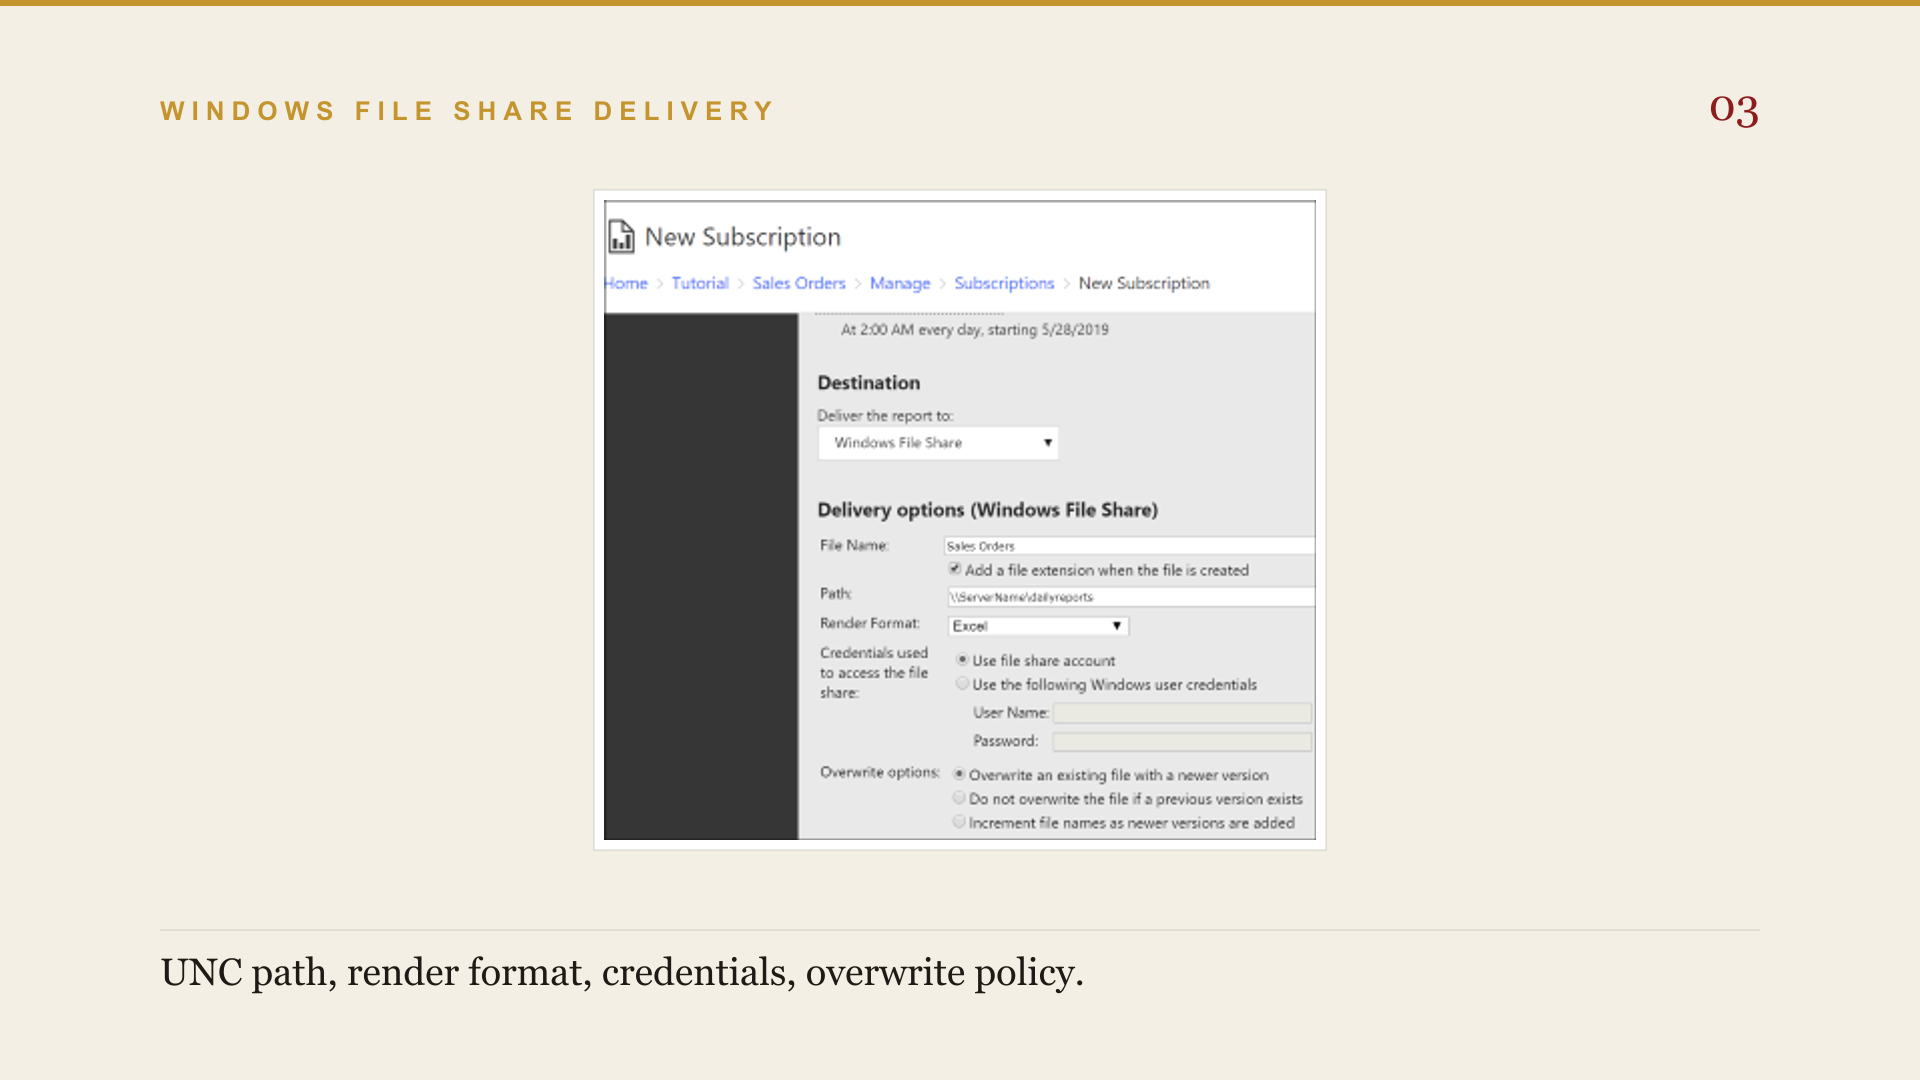
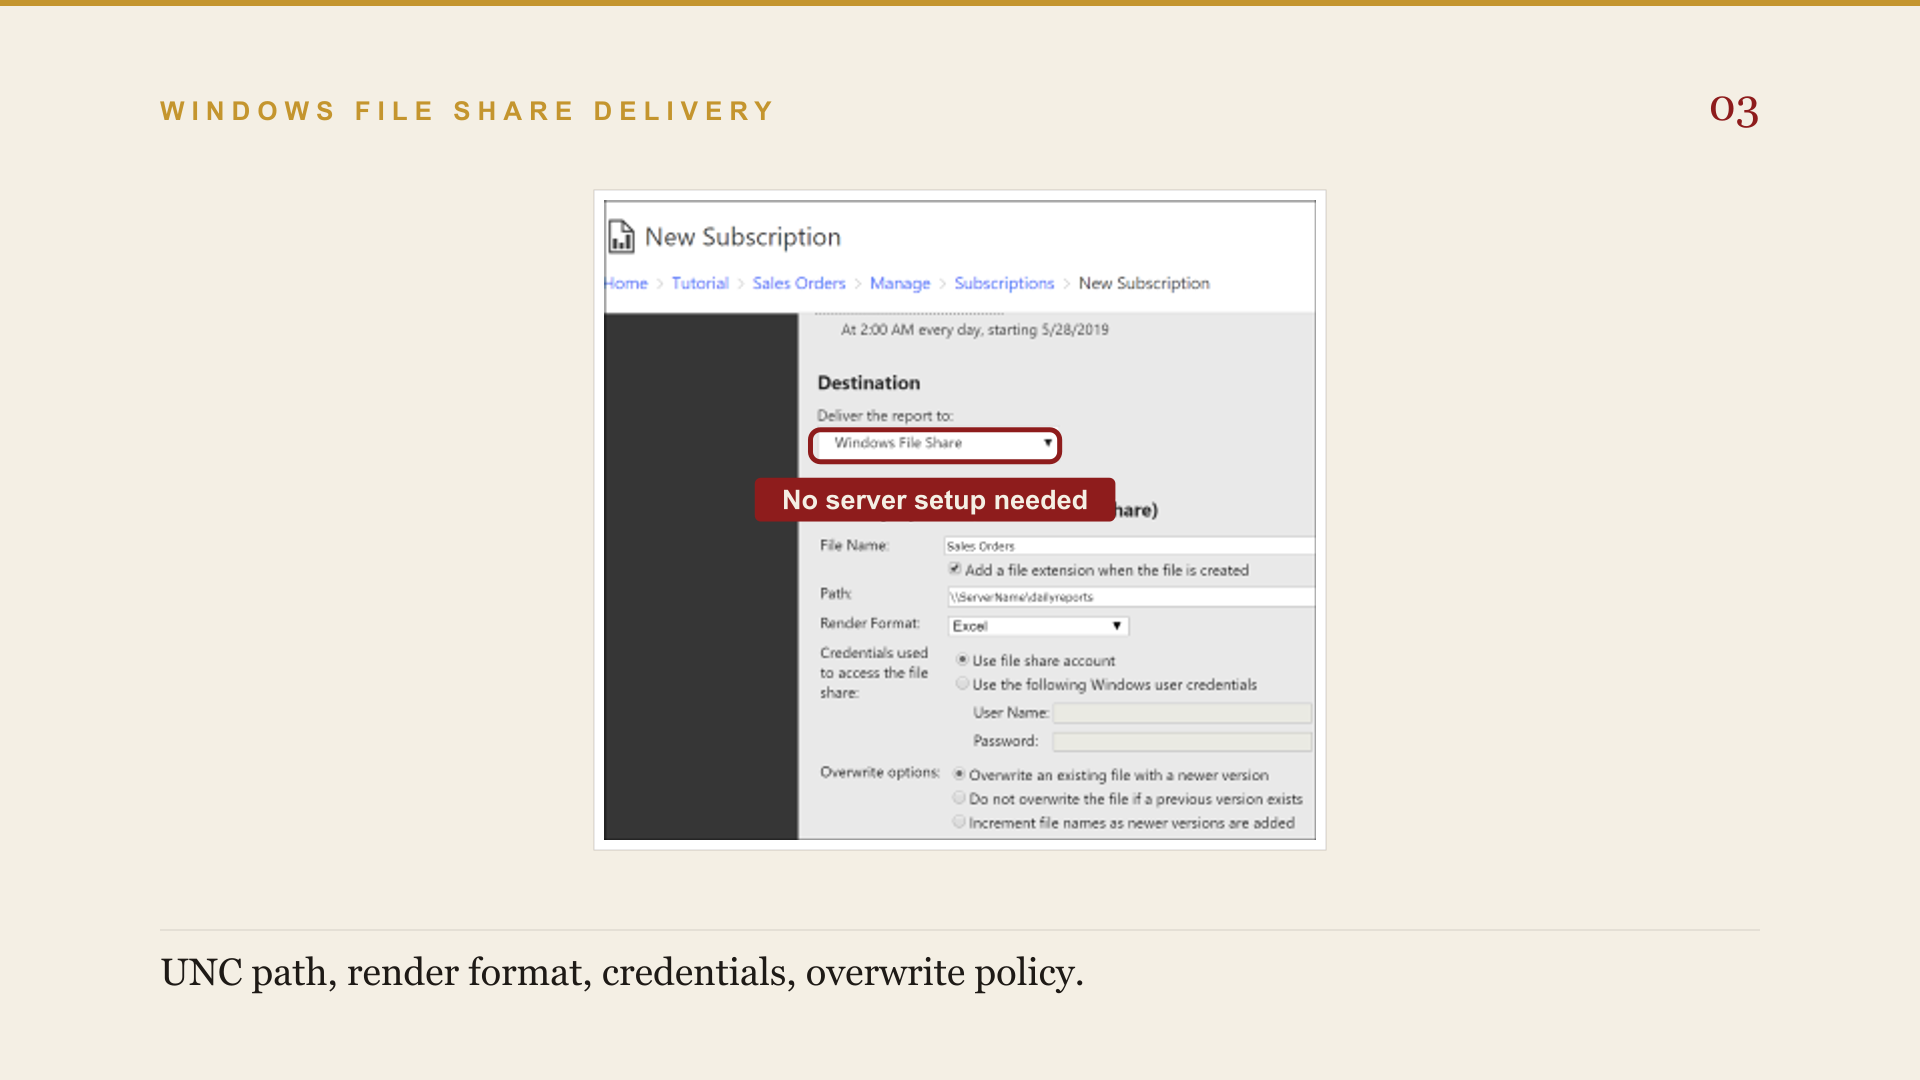
SSRS Ch7: finish lessons 31-33 - completes Chapter 7 (Subscriptions & Delivery)
- 31-data-driven-subscriptions: +1 screenshot (field-mapping table)
- 32-delivery-to-email-and-file-share: +1 screenshot (Render Format options)
- 33-subscription-scheduling: 0->3 screenshots (shared vs report-specific
  schedule, edit schedule, SQL Agent Jobs folder) - a real screenshot
  does exist after all, superseding an earlier non-visual note

All sources mssqltips.com + learn.microsoft.com, verified via curl.

Changed region(s): [[0.375, 0.3972, 0.5938, 0.4889]]

diff --git a/content/ssrs/ch07/33-subscription-scheduling/script.md b/content/ssrs/ch07/33-subscription-scheduling/script.md
@@ -4,14 +4,26 @@
 
 We've built subscriptions, and we've picked delivery extensions. The last piece is telling a subscription when to actually run — and Reporting Services gives you two genuinely different ways to do that.
 
-## Segment 2 (steps: shared vs report-specific)
+## Segment 2 (screenshot: schedule-shared-vs-report-specific)
 
-A shared schedule is created once, as its own item, and then referenced by any number of reports and subscriptions. A report-specific schedule is defined inline, right inside the one subscription that uses it — no separate item to manage. Both express the same recurrence patterns — hourly, daily, weekly, monthly, or a one-time run. The difference is entirely about where that information lives, and how many things can point at it. If ten subscriptions all need to run at 6 AM after a nightly load finishes, a shared schedule means "6 AM" lives in exactly one place — move the load to 6:30, and you edit one schedule instead of ten. Shared schedules can also be paused and resumed, which a report-specific schedule simply can't do. Delete a shared schedule that's in use, though, and Reporting Services doesn't orphan anything — it creates an individual report-specific schedule for every subscription that used it, copying the same timing over first, so nothing silently stops running.
+Right in the New Subscription page's Schedule section, you get the choice. Shared schedule hands you a dropdown of schedules someone's already created. Report-specific schedule is selected here instead, with Edit schedule next to it — and underneath, a preview of what it's currently set to: 2 AM every day, starting October 1st, 2020.
 
-## Segment 3 (steps: the machinery)
+## Segment 3 (screenshot: edit-schedule)
 
-None of this runs itself — it's backed by real infrastructure. Creating a schedule writes its recurrence information to the report server database and creates a SQL Server Agent job. When that job fires, it drops an event into a queue the Scheduling and Delivery Processor polls — every 10 seconds, by default. The processor picks the event up, calls the report processor to run the report, and hands the result to whichever delivery extension the subscription specifies. Stop SQL Server Agent for a stretch of time, and every scheduled operation that should have fired during that window is simply lost — it isn't queued up to catch up later.
+Click Edit schedule and this is what opens — the same recurrence picker whether you're defining a report-specific schedule or creating a brand-new shared one. Hour, Day, Week, Month, or Once, then the specifics underneath: which days, what time, when it starts and optionally ends. Both schedule types are built from exactly this same picker — the only difference is where the result gets stored afterward.
 
-## Segment 4 (outro)
+## Segment 4 (steps: shared vs report-specific)
+
+If ten subscriptions all need to run at 6 AM after a nightly load finishes, a shared schedule means "6 AM" lives in exactly one place — move the load to 6:30, and you edit one schedule instead of ten. Shared schedules can also be paused and resumed, which a report-specific schedule simply can't do. Delete a shared schedule that's in use, though, and Reporting Services doesn't orphan anything — it creates an individual report-specific schedule for every subscription that used it, copying the same timing over first, so nothing silently stops running.
+
+## Segment 5 (screenshot: agent-jobs-folder)
+
+None of this runs itself — it's backed by real infrastructure. Creating a schedule writes its recurrence information to the report server database and creates a corresponding SQL Server Agent job. This is what that actually looks like in Management Studio: one job per schedule, each one named with an unreadable GUID instead of a report name, because a single schedule can back more than one subscription at once.
+
+## Segment 6 (steps: the machinery)
+
+When that job fires, it drops an event into a queue the Scheduling and Delivery Processor polls — every 10 seconds, by default. The processor picks the event up, calls the report processor to run the report, and hands the result to whichever delivery extension the subscription specifies. Stop SQL Server Agent for a stretch of time, and every scheduled operation that should have fired during that window is simply lost — it isn't queued up to catch up later.
+
+## Segment 7 (outro)
 
 That's Chapter 7 — subscriptions built, delivery extensions chosen, schedules understood. Next up, Chapter 8: Deployment and Administration, starting with Report Server administration itself.

diff --git a/content/ssrs/ch07/32-delivery-to-email-and-file-share/script.md b/content/ssrs/ch07/32-delivery-to-email-and-file-share/script.md
@@ -6,12 +6,20 @@ Whichever subscription type you build — standard or data-driven — it ends th
 
 ## Segment 2 (screenshot: email-delivery-option)
 
-Choosing E-Mail as the destination surfaces fields anyone who's used email will recognize — To, Cc, Bcc, Subject, Priority, a comment box. The real decision is Include Report versus Include Link: embed or attach an actual copy of the report, or just send a link to it on the report server. Clear both, and the subscriber gets nothing but the notification text in the subject line. If you do include the report itself, Render Format decides its shape — pick MHTML, web archive, to embed it right in the message body, or pick anything else to send it as an attachment. And remember, E-Mail only shows up as an option at all once your report server administrator has configured it — it's the default extension, but it's not usable out of the box.
+Choosing E-Mail as the destination surfaces fields anyone who's used email will recognize — To, Cc, Bcc, Subject, Priority, a comment box. The real decision is Include Report versus Include Link: embed or attach an actual copy of the report, or just send a link to it on the report server. Clear both, and the subscriber gets nothing but the notification text in the subject line. And remember, E-Mail only shows up as an option at all once your report server administrator has configured it — it's the default extension, but it's not usable out of the box.
 
 ## Segment 3 (screenshot: file-share-delivery-option)
 
 Windows File Share trades those email fields for a target location — a file name, a path in UNC format, and a render format that decides the file's extension. Two settings here are worth knowing cold. Credentials — you can use a file share account, one set of credentials an administrator maintains centrally, or supply a specific Windows user's login yourself. And overwrite options — overwrite the existing file, skip delivery if one's already there, or increment the file name so every run keeps its own copy. Unlike email, file share delivery needs no server-side configuration at all — just a target folder that already exists.
 
-## Segment 4 (outro)
+## Segment 4 (screenshot: render-format-options)
+
+Render Format is the one control both destinations share, and it's worth seeing the full list at once: Word, Excel, PowerPoint, and PDF cover most business needs. TIFF renders the report as a paginated image. MHTML, web archive, is the format that lets an email subscription embed the report directly in the message body instead of attaching it. And CSV, XML, and Data Feed exist for handing the output to another system rather than a person.
+
+## Segment 5 (steps: what each one needs first)
+
+Put the two side by side and the setup burden is genuinely different. E-Mail only shows up as an option once your report server administrator has configured it server-side — File Share needs nothing but a target folder that already exists. Either way, what lands is a static file — a snapshot at the moment the subscription ran, with none of the interactivity a live report in the browser gives you.
+
+## Segment 6 (outro)
 
 Next lesson, we finish the subscription picture with scheduling — shared schedules versus subscription-specific ones, and what actually fires a subscription on time.

diff --git a/content/ssrs/ch07/33-subscription-scheduling/guide.md b/content/ssrs/ch07/33-subscription-scheduling/guide.md
@@ -22,9 +22,18 @@ item, and then referenced by any number of reports and subscriptions. A
 **report-specific schedule** is defined inline, right inside the
 subscription (or report execution properties) that uses it — there's no
 separate item to manage, just settings baked into that one subscription.
+
+![New Subscription page's Schedule section: a Shared schedule radio with a Select a shared schedule dropdown, and a Report-specific schedule radio (selected) with an Edit schedule link and 'At 2:00 AM every day, starting 10/1/2020' underneath.](/courses/ssrs/ch07/33-subscription-scheduling/schedule-shared-vs-report-specific.png)
+*Shared schedule (pick from a dropdown) or report-specific (defined inline).*
+
 Both express the same underlying recurrence patterns — hourly, daily,
 weekly, monthly, or a one-time run — the difference is entirely about
 where the schedule information lives and how many things can point at it.
+Clicking **Edit schedule** on a report-specific schedule opens the same
+recurrence picker a shared schedule uses when you create one:
+
+![Edit Schedule page: Hour/Day/Week/Month/Once recurrence radios with Day selected, the daily day-of-week checkboxes, start time, and start/end dates.](/courses/ssrs/ch07/33-subscription-scheduling/edit-schedule.png)
+*Both schedule types express the same recurrence patterns underneath.*
 
 ## Why shared schedules win at scale
 
@@ -56,14 +65,21 @@ again, and you're back to managing each one by hand.
 A schedule you create doesn't run itself — it's backed by real
 infrastructure. Creating a schedule writes its recurrence information to
 the report server database and creates a corresponding **SQL Server
-Agent** job. When that job fires, it drops an event into a queue the
-**Scheduling and Delivery Processor** polls at regular intervals (every
-10 seconds, by default). The processor picks the event up, calls the
-report processor to run or refresh the report, and hands the result to
-whichever delivery extension the subscription specifies. Stop SQL Server
-Agent for a stretch of time, and every scheduled operation that should
-have fired during that window is simply lost — it isn't queued up to
-catch up later.
+Agent** job.
+
+![SQL Server Management Studio's Object Explorer with SQL Server Agent expanded, showing the Jobs folder and a long list of GUID-named jobs underneath it.](/courses/ssrs/ch07/33-subscription-scheduling/agent-jobs-folder.jpg)
+*Every schedule becomes a real Agent job — this is what that looks like.*
+
+That's what the jobs actually look like in SQL Server Agent: one entry
+per schedule, named with an unreadable GUID rather than the report's
+name, because a single schedule can back more than one subscription. When
+the job fires, it drops an event into a queue the **Scheduling and
+Delivery Processor** polls at regular intervals (every 10 seconds, by
+default). The processor picks the event up, calls the report processor to
+run or refresh the report, and hands the result to whichever delivery
+extension the subscription specifies. Stop SQL Server Agent for a stretch
+of time, and every scheduled operation that should have fired during that
+window is simply lost — it isn't queued up to catch up later.
 
 ## Key terms
 

diff --git a/content/ssrs/ch07/31-data-driven-subscriptions/script.md b/content/ssrs/ch07/31-data-driven-subscriptions/script.md
@@ -12,8 +12,16 @@ Before any of that works, you need a dataset — a data source, plus a query or 
 
 ## Segment 3 (screenshot: query-section)
 
-Selecting Edit Dataset takes you to the Query section, which actually tells you which fields your query needs to return — it lists the exact delivery options and report parameters based on what you've configured elsewhere in the wizard. Two things about that result set matter more than anything else. Columns determine what you're allowed to map to delivery settings and parameters — an email subscription needs a column of email addresses. And rows determine how many deliveries get generated: ten thousand rows means ten thousand separate notifications. Microsoft's own advice is worth following here — run the query in Management Studio first, confirm the results look right, before you ever paste it into this wizard.
+Selecting Edit Dataset takes you to the Query section, which actually tells you which fields your query needs to return — it lists the exact delivery options and report parameters based on what you've configured elsewhere in the wizard.
 
-## Segment 4 (outro)
+## Segment 4 (screenshot: map-email-fields-to-dataset)
+
+Once the query validates, this is where it actually gets used: a Delivery options grid, one row per field the subscription needs — To, Cc, Bcc, Include Report, Render Format, Subject, and the rest. Each row gets a source of value — a literal value you type in, or Get value from dataset, which hands you a Value/field dropdown listing every column your query returned. Set To's source to the dataset and its field to ToEmailAddress, and that one row alone is what turns a flat list of email addresses into a thousand individual, correctly-addressed deliveries.
+
+## Segment 5 (steps: what the result set controls)
+
+Two things about that result set matter more than anything else. Columns determine what you're allowed to map to delivery settings and parameters — an email subscription needs a column of email addresses. And rows determine how many deliveries get generated: ten thousand rows means ten thousand separate notifications. Microsoft's own advice is worth following here — run the query in Management Studio first, confirm the results look right, before you ever paste it into this wizard.
+
+## Segment 6 (outro)
 
 Next lesson, we go deep on the two delivery extensions every subscription eventually hands off to — email and Windows file share — and exactly what each one asks for.

diff --git a/content/ssrs/ch07/32-delivery-to-email-and-file-share/guide.md b/content/ssrs/ch07/32-delivery-to-email-and-file-share/guide.md
@@ -68,6 +68,16 @@ instance) simply aren't available once the report's been rendered and
 shipped. That's a reason to avoid formats that only make sense
 interactively, like HTML 4.0, for either delivery extension.
 
+![Render Format dropdown open over the Windows File Share delivery options, listing Word, Excel, PowerPoint, PDF, TIFF file, MHTML (web archive), CSV (comma delimited), XML file with report data, and Data Feed.](/courses/ssrs/ch07/32-delivery-to-email-and-file-share/render-format-options.png)
+*The same dropdown, every destination: nine output formats to choose from.*
+
+It's the same **Render Format** dropdown behind both destinations — nine
+choices in total. Office formats (Word, Excel, PowerPoint) and PDF cover
+most business needs; TIFF renders the report as a paginated image; MHTML
+is the one that lets an e-mail subscription embed the report in the
+message body instead of attaching it; CSV, XML, and Data Feed exist for
+feeding the output into some other system rather than a person.
+
 ## Key terms
 
 | Term | Meaning |

diff --git a/content/ssrs/ch07/31-data-driven-subscriptions/guide.md b/content/ssrs/ch07/31-data-driven-subscriptions/guide.md
@@ -67,6 +67,16 @@ dataset you just built. That mapping step is what actually turns raw
 query columns into "who gets this report, with what parameters, delivered
 how."
 
+![Delivery options (E-Mail) grid: To, Cc, Bcc, Reply-To, Include Report, Render Format, Priority, Subject, Comment, and Include Link, each with a Source of value dropdown and a Value/field column.](/courses/ssrs/ch07/31-data-driven-subscriptions/map-email-fields-to-dataset.png)
+*Every delivery field gets set to a literal value or mapped to a dataset column.*
+
+Each row has a **Source of value** — leave it blank, type a literal value,
+or choose **Get value from dataset**, which unlocks a **Value/field**
+dropdown listing every column your query returned. Set **To**'s source to
+the dataset and its field to a column like `ToEmailAddress`, and that one
+row is what turns a flat list of addresses into one correctly-addressed
+delivery per row.
+
 ## Key terms
 
 | Term | Meaning |
